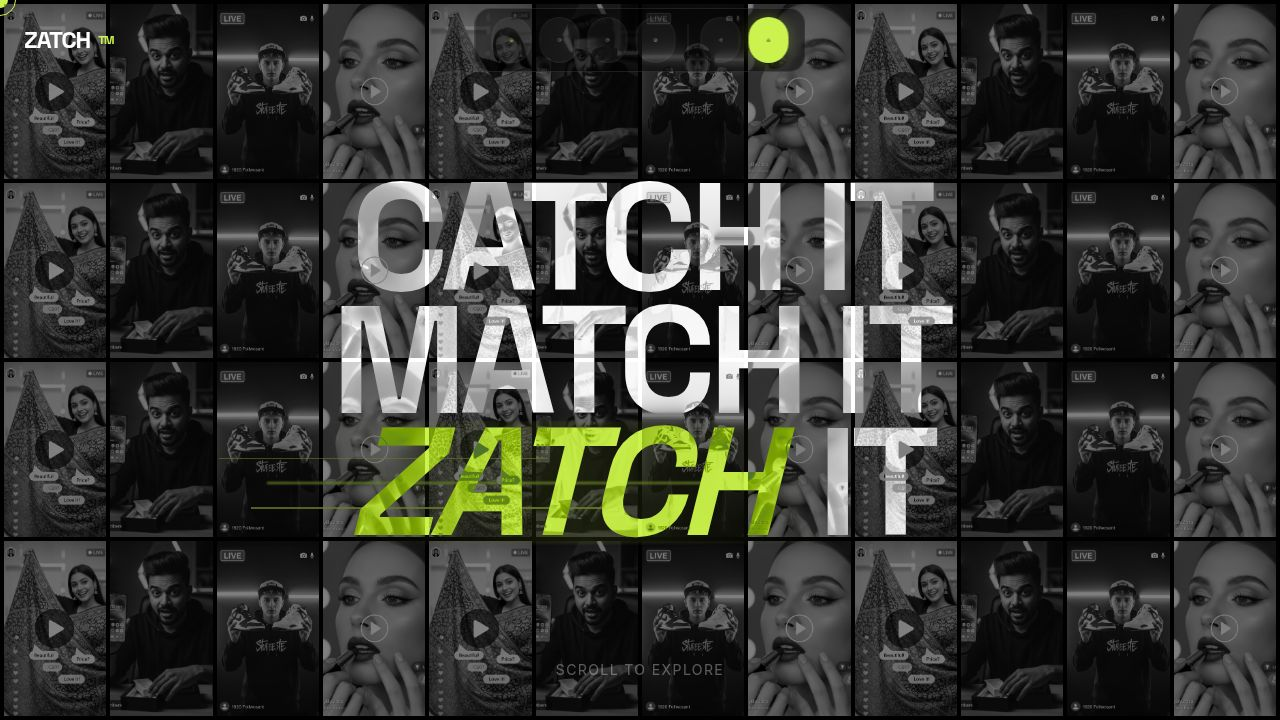
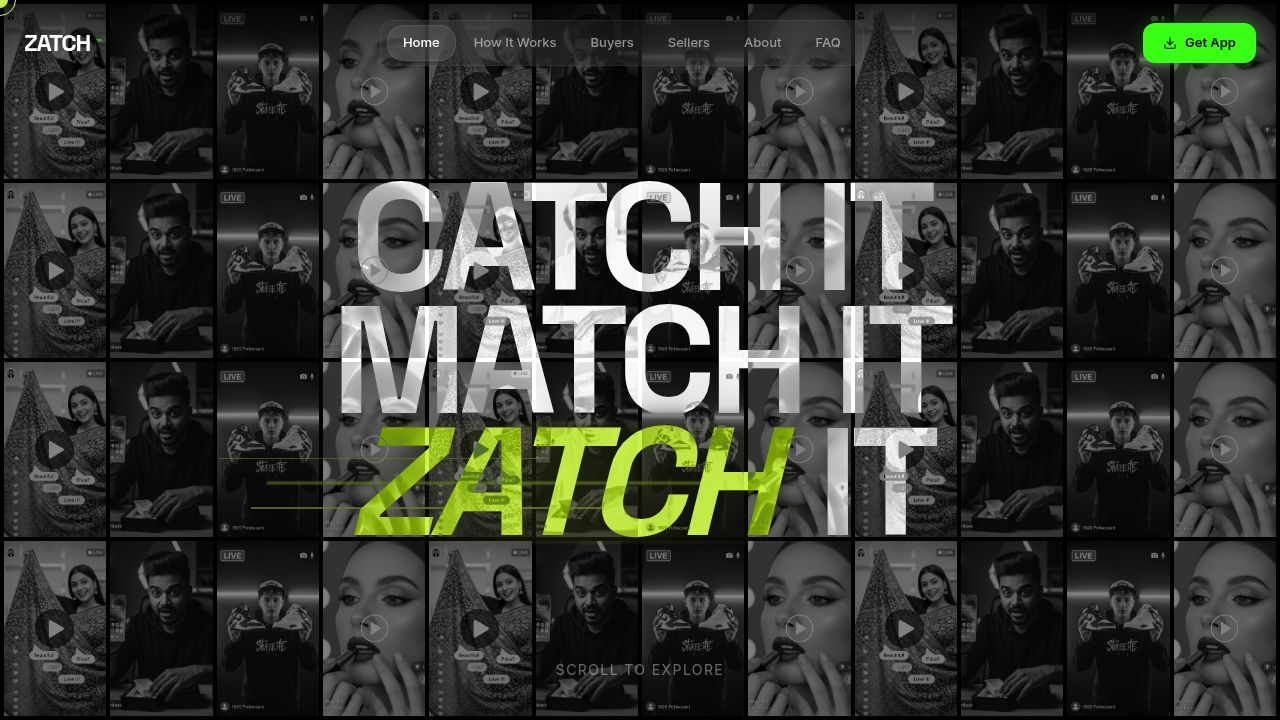
Add Google Play Store link to all download buttons across the application
Update various components (Footer, Navbar, StickmanCTA, Trust, download.tsx) to replace placeholder links with the Google Play Store URL for the Zatch app. Button click handlers and anchor `href` attributes are modified to point to the specified Play Store link, ensuring all download calls redirect users to the correct app store page.

Replit-Commit-Author: Agent
Replit-Commit-Session-Id: c713441b-7c9c-4faf-8dd6-538c22cf0dbf
Replit-Commit-Checkpoint-Type: full_checkpoint
Replit-Commit-Event-Id: e6a530b8-48b5-4260-a2ce-5b9d690f3a51
Replit-Commit-Screenshot-Url: https://storage.googleapis.com/screenshot-production-us-central1/a6b22d07-821e-4c69-b944-390edc69f984/c713441b-7c9c-4faf-8dd6-538c22cf0dbf/JOQVr6f
Replit-Helium-Checkpoint-Created: true

diff --git a/client/src/components/layout/Navbar.tsx b/client/src/components/layout/Navbar.tsx
@@ -124,25 +124,29 @@ export function Navbar() {
           </div>
 
           <div className="hidden md:block">
-            <button
-              onClick={() => navigate({ name: "Download", target: "download", type: "scroll" })}
+            <a
+              href="https://play.google.com/store/apps/details?id=com.zatch.app&pcampaignid=web_share"
+              target="_blank"
+              rel="noopener noreferrer"
               className="flex items-center gap-2 px-5 py-2.5 bg-[#39FF14] text-black text-[13px] font-bold rounded-xl hover:bg-[#39FF14]/90 transition-all duration-200 shadow-[0_0_20px_rgba(57,255,20,0.2)] hover:shadow-[0_0_30px_rgba(57,255,20,0.35)]"
               data-testid="nav-download"
             >
               <Download className="w-3.5 h-3.5" />
               Get App
-            </button>
+            </a>
           </div>
 
           {/* Mobile Actions */}
           <div className="md:hidden flex items-center gap-3">
-            <button
-              onClick={() => navigate({ name: "Download", target: "download", type: "scroll" })}
+            <a
+              href="https://play.google.com/store/apps/details?id=com.zatch.app&pcampaignid=web_share"
+              target="_blank"
+              rel="noopener noreferrer"
               className="px-4 py-2 bg-[#39FF14] text-black text-xs font-bold rounded-lg shadow-[0_0_12px_rgba(57,255,20,0.2)]"
               data-testid="nav-download-mobile"
             >
               Get App
-            </button>
+            </a>
             <button
               className="text-white relative z-50 p-2 rounded-lg hover:bg-white/10 transition-colors"
               onClick={() => setMobileMenuOpen(!mobileMenuOpen)}
@@ -188,13 +192,15 @@ export function Navbar() {
               transition={{ delay: 0.3 }}
               className="mt-10"
             >
-              <button
-                onClick={() => navigate({ name: "Download", target: "download", type: "scroll" })}
+              <a
+                href="https://play.google.com/store/apps/details?id=com.zatch.app&pcampaignid=web_share"
+                target="_blank"
+                rel="noopener noreferrer"
                 className="w-full flex items-center justify-center gap-2 bg-[#39FF14] text-black font-bold py-4 text-lg rounded-xl shadow-[0_0_20px_rgba(57,255,20,0.2)]"
               >
                 <Download className="w-5 h-5" />
                 Download App
-              </button>
+              </a>
             </motion.div>
           </motion.div>
         )}

diff --git a/client/src/pages/download.tsx b/client/src/pages/download.tsx
@@ -62,7 +62,7 @@ export default function DownloadPage() {
                transition={{ duration: 0.6, delay: 0.4 }}
                className="space-y-6"
              >
-                <a href="#" className="block group">
+                <a href="https://play.google.com/store/apps/details?id=com.zatch.app&pcampaignid=web_share" target="_blank" rel="noopener noreferrer" className="block group">
                    <div className="bg-[#1A1A1A] hover:bg-[#252525] border border-white/10 rounded-2xl p-6 flex items-center gap-6 transition-all duration-300 group-hover:scale-105 group-hover:border-primary/50">
                       <div className="w-16 h-16 bg-black rounded-xl flex items-center justify-center border border-white/10 group-hover:border-primary/50 transition-colors">
                          <span className="text-3xl"></span>
@@ -77,7 +77,7 @@ export default function DownloadPage() {
                    </div>
                 </a>
 
-                <a href="#" className="block group">
+                <a href="https://play.google.com/store/apps/details?id=com.zatch.app&pcampaignid=web_share" target="_blank" rel="noopener noreferrer" className="block group">
                    <div className="bg-[#1A1A1A] hover:bg-[#252525] border border-white/10 rounded-2xl p-6 flex items-center gap-6 transition-all duration-300 group-hover:scale-105 group-hover:border-primary/50">
                       <div className="w-16 h-16 bg-black rounded-xl flex items-center justify-center border border-white/10 group-hover:border-primary/50 transition-colors">
                          <Play className="w-8 h-8 fill-white text-white" />

diff --git a/client/src/components/layout/Footer.tsx b/client/src/components/layout/Footer.tsx
@@ -41,13 +41,15 @@ export function Footer() {
             <p className="text-muted-foreground text-xs mb-6">
               Download the app and experience interactive commerce.
             </p>
-            <button
-              onClick={() => navigateToSection("download")}
-              className="bg-[#39FF14] hover:bg-[#39FF14]/90 text-black px-6 py-3 rounded-lg font-bold text-sm transition-all w-full text-center mb-6"
+            <a
+              href="https://play.google.com/store/apps/details?id=com.zatch.app&pcampaignid=web_share"
+              target="_blank"
+              rel="noopener noreferrer"
+              className="block bg-[#39FF14] hover:bg-[#39FF14]/90 text-black px-6 py-3 rounded-lg font-bold text-sm transition-all w-full text-center mb-6"
               data-testid="button-footer-download"
             >
               Download Zatch&trade;
-            </button>
+            </a>
             <div className="flex gap-4">
               <a href="#" className="w-8 h-8 bg-white/10 rounded-full flex items-center justify-center hover:bg-[#39FF14]/20 hover:text-[#39FF14] transition-colors cursor-pointer" data-testid="link-twitter">
                 <Twitter size={16} />

diff --git a/client/src/components/sections/Trust.tsx b/client/src/components/sections/Trust.tsx
@@ -37,7 +37,7 @@ export function Trust() {
             </p>
             
             <div className="flex flex-col sm:flex-row items-center justify-center gap-4">
-              <Button size="lg" className="bg-primary text-black hover:bg-primary/90 font-bold px-10 h-14 rounded-full text-lg w-full sm:w-auto">
+              <Button size="lg" className="bg-primary text-black hover:bg-primary/90 font-bold px-10 h-14 rounded-full text-lg w-full sm:w-auto" onClick={() => window.open("https://play.google.com/store/apps/details?id=com.zatch.app&pcampaignid=web_share", "_blank")}>
                 Download Zatch
               </Button>
               <Button size="lg" variant="outline" className="border-white/20 text-white hover:bg-white/10 font-bold px-10 h-14 rounded-full text-lg w-full sm:w-auto">

diff --git a/client/src/components/sections/StickmanCTA.tsx b/client/src/components/sections/StickmanCTA.tsx
@@ -232,10 +232,12 @@ export function StickmanCTA() {
           spawnConfetti();
           setIsJumping(true);
           setTimeout(() => setIsJumping(false), 600);
+          window.open("https://play.google.com/store/apps/details?id=com.zatch.app&pcampaignid=web_share", "_blank");
         }
       }, stepTime);
     } else {
       spawnConfetti();
+      window.open("https://play.google.com/store/apps/details?id=com.zatch.app&pcampaignid=web_share", "_blank");
     }
   };
 
